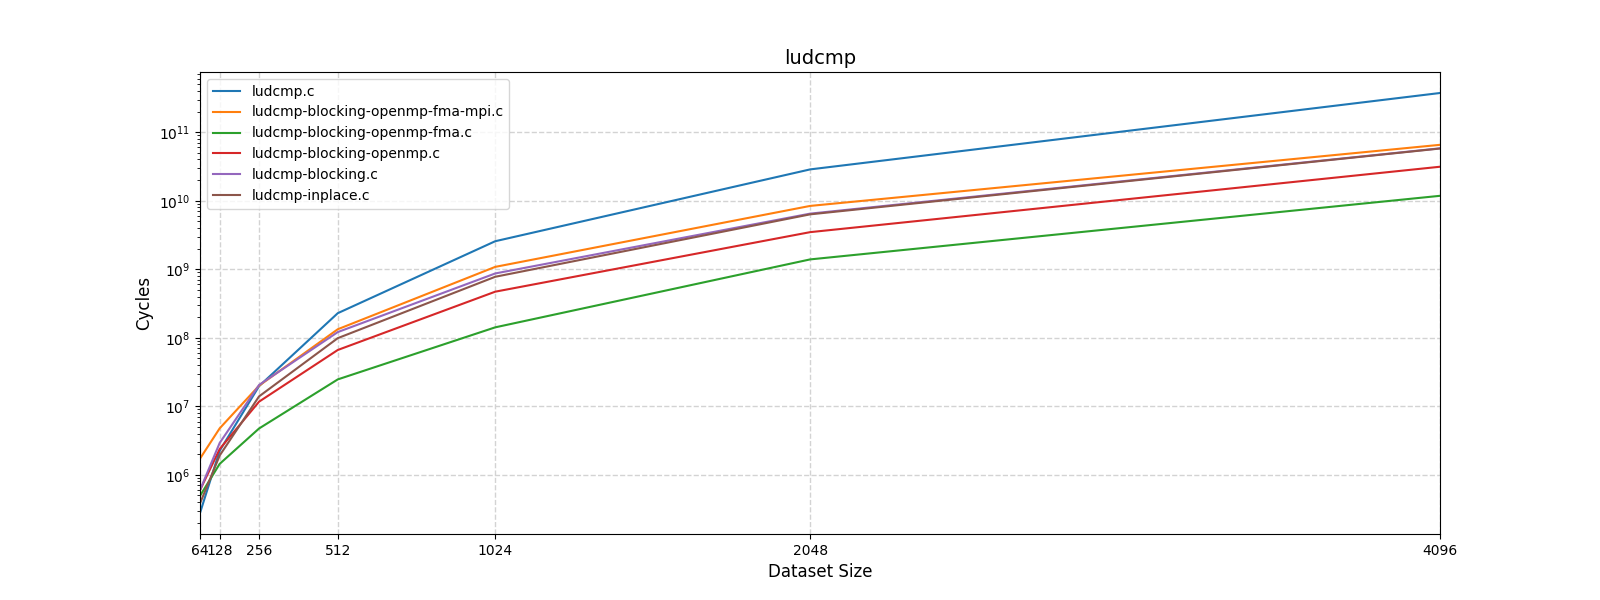
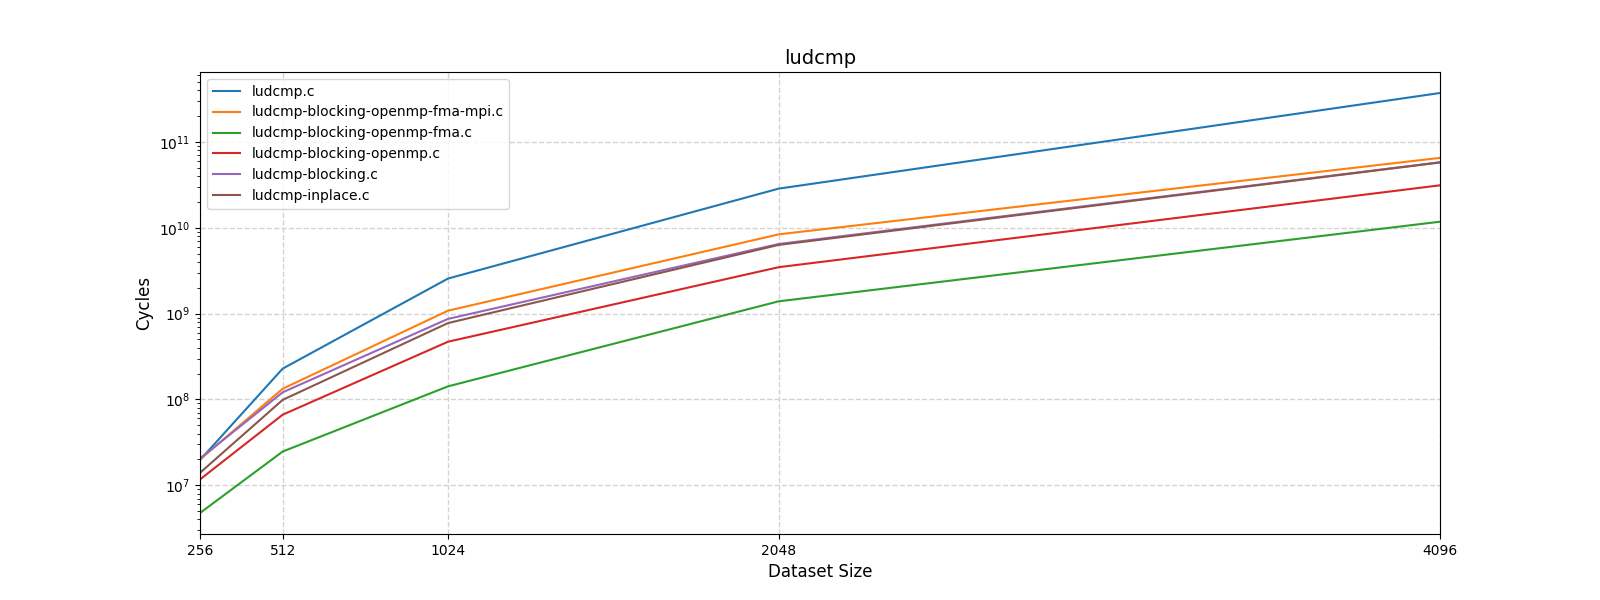
results

diff --git a/scripts/plotting.py b/scripts/plotting.py
@@ -62,7 +62,7 @@ def plotResults(results, dataset_sizes, imp_names, path, logScale):
     plt.savefig(path)
 
 def runPlotter(dir, dataset_sizes, runs):
-    DRAW_PLOT = False
+    DRAW_PLOT = True
 
     if DRAW_PLOT:
         results, dataset_sizes, implementations = loadResults(dir)
@@ -99,6 +99,6 @@ if __name__ == "__main__":
     path_gemm = "./linear-algebra/blas/gemm"
     path_ludcmp = "./linear-algebra/solvers/ludcmp"
 
-    dataset_sizes = [2**i for i in range(6, 7)]
+    dataset_sizes = [2**i for i in range(8, 12)]
 
     runPlotter(path_ludcmp, dataset_sizes, runs=2)
